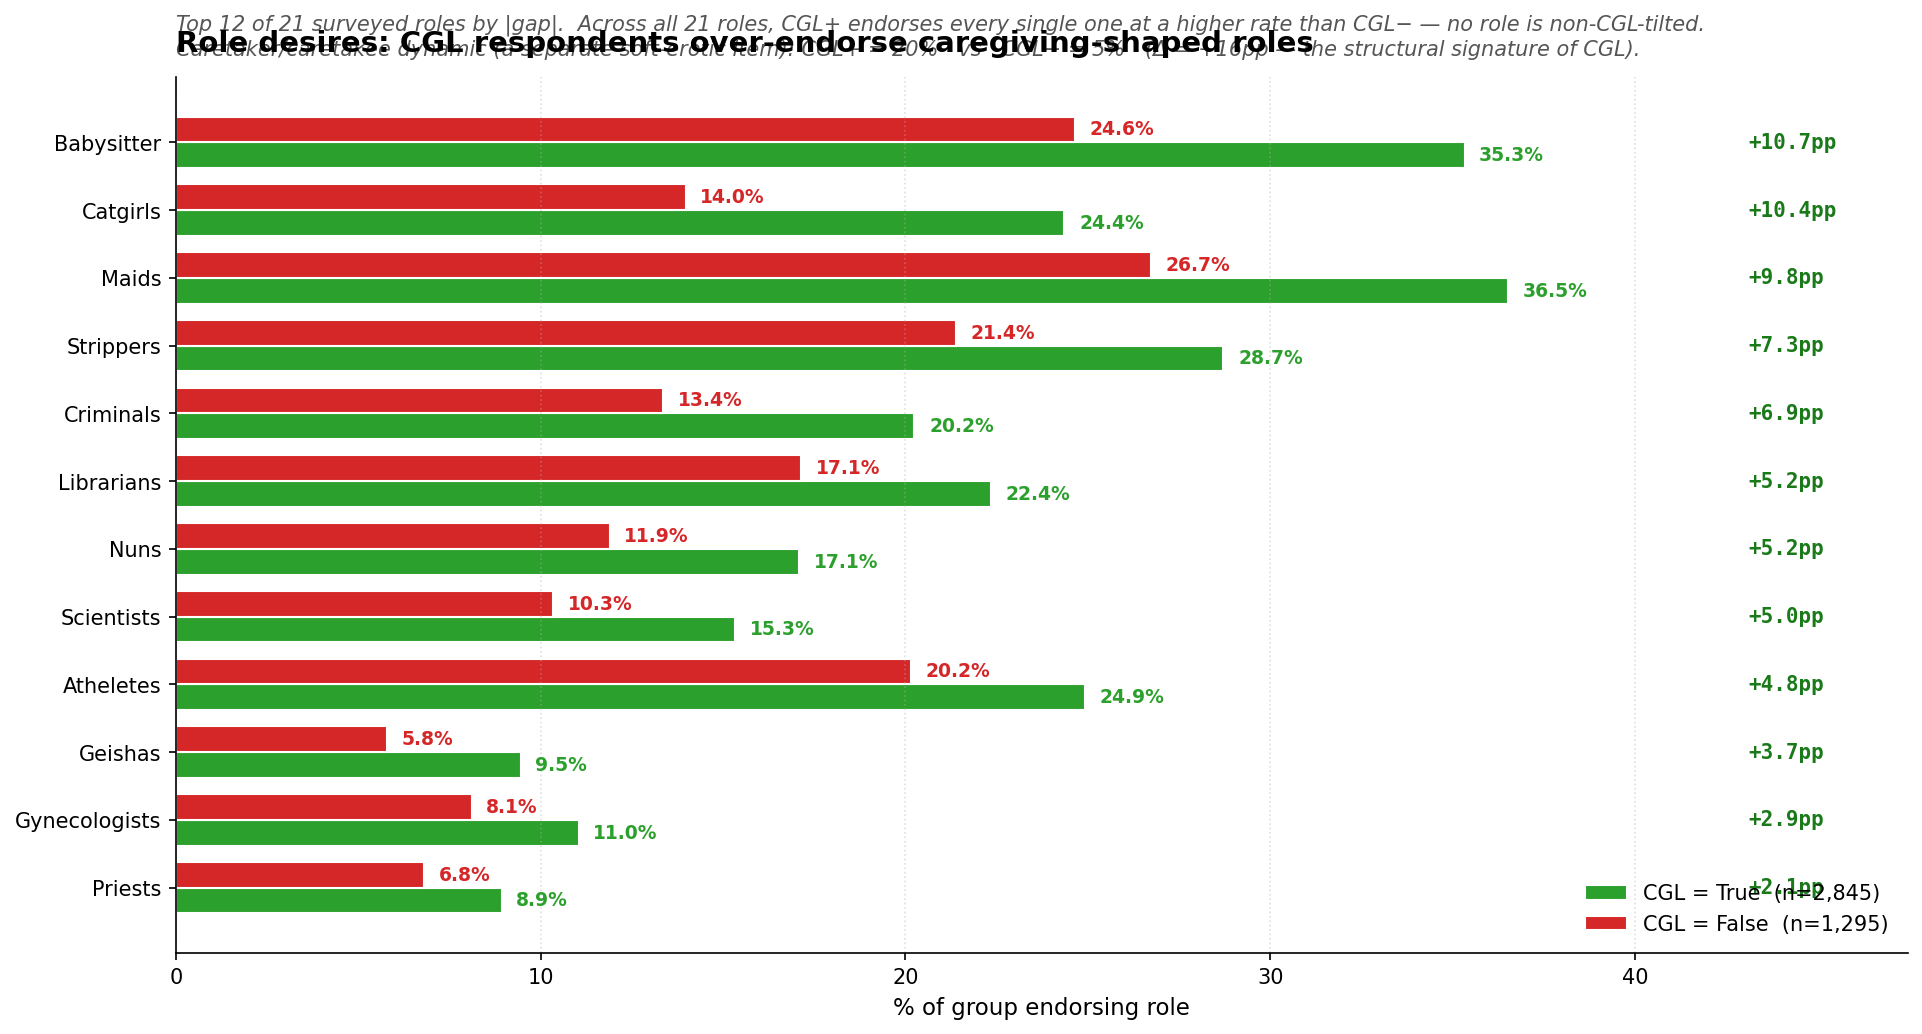
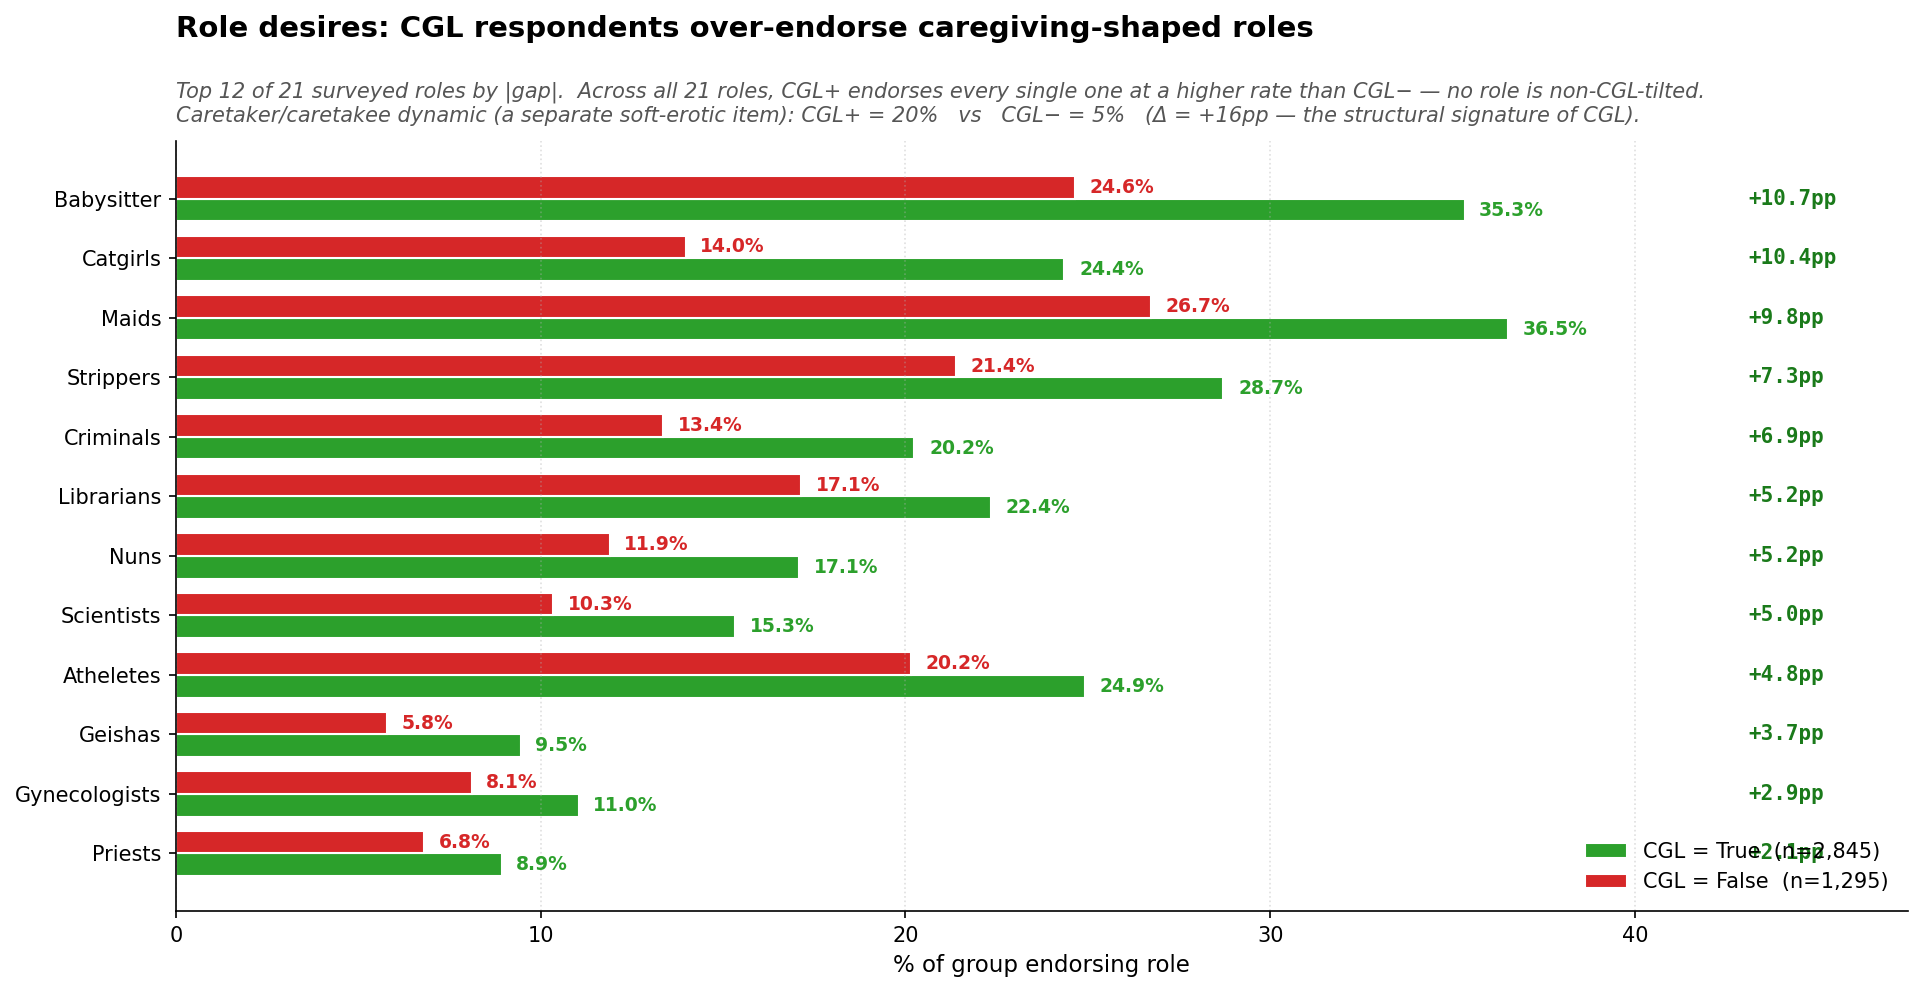
Update story report, figure script, and roles visualization

diff --git a/build_story_figures.py b/build_story_figures.py
@@ -491,7 +491,7 @@ def figure_roles(df: pd.DataFrame) -> None:
     ax.legend(loc="lower right", frameon=False, fontsize=10)
     ax.set_title(
         "Role desires: CGL respondents over-endorse caregiving-shaped roles",
-        fontsize=14, fontweight="bold", loc="left", pad=12,
+        fontsize=14, fontweight="bold", loc="left", pad=50,
     )
     subtitle = (
         f"Top 12 of 21 surveyed roles by |gap|.  Across all 21 roles, CGL+ endorses "
@@ -505,7 +505,7 @@ def figure_roles(df: pd.DataFrame) -> None:
         )
     ax.text(0, 1.02, subtitle, transform=ax.transAxes,
             fontsize=10, style="italic", color="#555", va="bottom")
-    plt.tight_layout()
+    plt.tight_layout(rect=[0, 0, 1, 0.96])
     plt.savefig(FIG_DIR / "story_04_roles.png", **SAVE_KW)
     plt.close(fig)
 

diff --git a/1a_CGL_Story_and_Report.md b/1a_CGL_Story_and_Report.md
@@ -73,19 +73,7 @@ What follows are five things the data actually says about CGL, each with the cha
 - **The "evoke in partner" panel mirrors this from the other side.**
   - CGL respondents want partners to feel **powerlessness/vulnerability** (+2.2pp) or **power/smugness** (+1.4pp) — i.e. the inverse-role emotion.
   - They want partners to feel mutual-pursuit emotions less (eagerness −3.7pp, love/romance −1.6pp).
-
-### Statistical significance vs. magnitude
-
-- **Statistical significance: significant by construction.**
-  - A 15-category × 3-group chi-square at n ≈ 15,000 will reject the null essentially regardless of substance.
-  - Reporting an omnibus p-value here adds nothing — *which* categories shift is the substantive question.
-- **Magnitude: small per category, but internally coherent.**
-  - Each individual gap is a few percentage points.
-  - The pattern of shifts (toward asymmetric, away from mutual-pursuit) is consistent across both questions — coherence across items is the real signal.
-- **What this corrects in the public framing of CGL.**
-  - CGL is **not** less aroused or less intense than other kink groups.
-  - CGL is **not** "soft kink" — humiliation, the second-largest positive gap, is incompatible with that read.
-  - CGL is **asymmetric** — two unequal emotional positions in the same scene, both filled by mutual consent.
+  - (The consistency of this pattern across both emotional questions is the real signal — coherence across items, not individual p-values. CGL is **asymmetric** — two unequal emotional positions in the same scene, both filled by mutual consent. This is not less intense or "soft kink"; it is a distinct emotional *structure*.)
 
 > **Pullquote.** CGL respondents seek emotions that fit together because they're *different* — not emotions both people feel in unison.
 
@@ -150,17 +138,7 @@ What follows are five things the data actually says about CGL, each with the cha
   - **CGL = True: 20% endorse it.**
   - **CGL = False: 5% endorse it.**
   - That is a **fourfold over-representation** and the **single largest soft-erotic gap in the entire dataset**.
-
-### Statistical significance vs. magnitude
-
-- **Statistical significance: well above any noise floor.**
-  - Top role gaps run **+6 to +11 percentage points** on populations of ~3,000+ — easily detectable.
-- **Magnitude: small per role, large for the categorical signature.**
-  - Individual roles: Cohen's h roughly 0.20–0.25 (small effect).
-  - **Caretaker dynamic: h ≈ 0.46, a 15pp gap — moderate-to-large effect** and the strongest soft-erotic signal in the survey.
-- **The interpretive read.**
-  - The defining role for CGL is **the relationship shape**, not any specific costumed scenario.
-  - Role variety is additive; the structural-frame item is what locates CGL categorically.
+  - (Individual role gaps of +6–11pp at n=3,000+ per group are well above noise; Cohen's h ≈ 0.20–0.25 for individual roles is small, but the caretaker dynamic hits h ≈ 0.46 — moderate-to-large effect. The defining role for CGL is **the relationship shape**, not any specific costumed scenario.)
 
 > **Pullquote.** 20% of CGL respondents endorse a caretaker dynamic, vs. 5% of non-CGL respondents. The caregiving structure is the signal; the specific role is dressing.
 
@@ -232,20 +210,7 @@ What follows are five things the data actually says about CGL, each with the cha
 - **Universally-popular acts barely move.**
   - Vaginal fingering, oral, standard intercourse — high endorsement (~70–85%) in *both* CGL+ and CGL−, with tiny gaps.
   - The CGL signal is *not* "are you sexually active." It's *which thin subset of acts* carry the right power-dynamic, face/mouth, or control flavour.
-
-### Statistical significance vs. magnitude
-
-- **Acts: small but reliable.**
-  - Top |h| ≈ 0.10–0.17 — small effects on Cohen's scale.
-  - 5–9pp gaps on populations of 3,000+ — well above noise.
-  - The pattern is *which subset* of acts moves, not the magnitude of movement.
-- **Positions: smaller still.**
-  - Top |h| < 0.10.
-  - Positions are a weaker signal than acts; the *what* matters more than the *how*.
-- **What this licenses substantively.**
-  - "CGL respondents over-endorse a face/mouth/control-flavoured subset of acts" — supported.
-  - "CGL respondents have dramatically different sexual acts" — not supported; the popular acts are universal.
-  - The act-level signal is real but small. The structural signal (next chart) is much larger.
+  - (Acts show small but reliable effects: top |h| ≈ 0.10–0.17. Positions are even smaller (top |h| < 0.10). The act-level signal is real but small — the structural signal at the kink-preference level (next chart) is much larger.)
 
 > **Pullquote.** Vaginal fingering is universal; **fingering mouths is +8.5pp higher for CGL.** The acts side of NSFW is real but small — the subset matters more than the magnitude.
 
@@ -272,20 +237,7 @@ What follows are five things the data actually says about CGL, each with the cha
 - **Note on the "gentleness + nonconsent" pairing at the top.**
   - These are not contradictions — they are the two halves of a CGL scene.
   - Gentleness = the caregiver-half emotional register; nonconsent = the structural-fantasy framing the scene plays inside.
-  - The data licenses "CGL respondents over-endorse both the soft register *and* the structured-asymmetry register" — they are not picking one or the other.
-
-### Statistical significance vs. magnitude
-
-- **Common preferences: small-to-moderate effects.**
-  - Top six items at h ≈ 0.23–0.28 (small-to-moderate).
-  - 11–14pp gaps on populations of 3,000+.
-  - These are the **largest endorsement-level CGL signals in the kink-preference data**, larger than any act-level or position-level gap.
-- **Uncommon preferences: same magnitude band as common.**
-  - Top items also at h ≈ 0.20–0.24.
-  - "Mental alteration" sits at the top of the uncommon block and is structurally consistent with the "mindbreak" arousal-scale signal (next chart).
-- **What this licenses substantively.**
-  - The CGL content signal at the kink-preference level is about **scene framing** — what *kind* of scene is happening — much more than about specific acts.
-  - Gentleness AND nonconsent both being elevated is the structural picture, not a paradox: the CGL scene contains soft caregiving content *inside* a power-asymmetric frame.
+  - (Effect sizes on common preferences are small-to-moderate: top items at h ≈ 0.23–0.28, with 11–14pp gaps — the **largest endorsement-level CGL signals in the kink-preference data**, larger than any act-level or position-level gap. Uncommon preferences sit in the same band: h ≈ 0.20–0.24. The CGL content signal is about **scene framing** — what *kind* of scene is happening — much more than about specific acts.)
 
 > **Pullquote.** Gentleness and consensual-non-consent fantasy are the two largest common-preference gaps for CGL respondents — **+13.8 and +13.4 percentage points**. The scene is soft inside an asymmetric frame.
 
